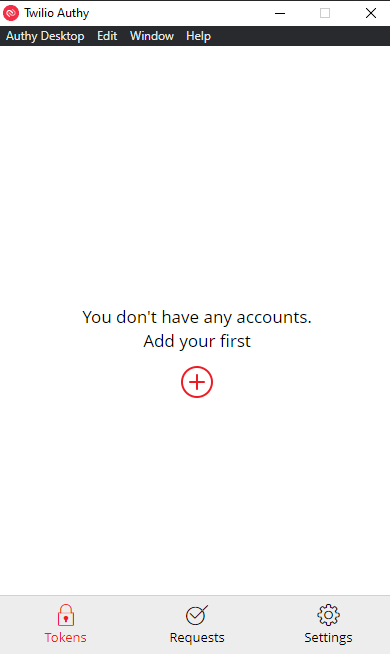
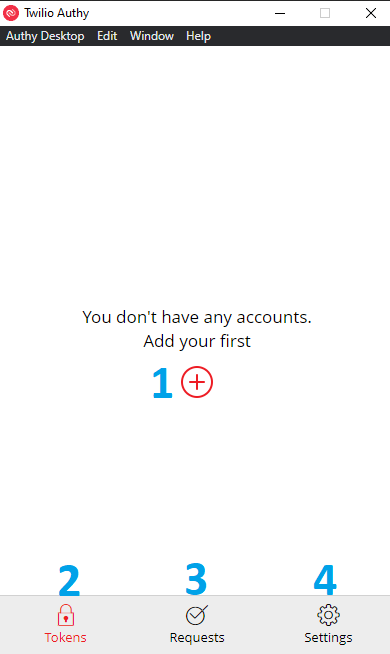
authy continue

diff --git a/authy.html b/authy.html
@@ -107,7 +107,7 @@
                         <li>نقوم بإدخال رقم الهاتف المحمول</li>
                         <li>نضغط <span>"Submit"</span></li>
                      </ul>
-                     <img src="./assets/authyImgs/img1.png" alt="one">
+                     <div class="image"><img src="./assets/authyImgs/img1.png" alt="one"></div>
                   </div>
                </li>
                <li>
@@ -117,7 +117,7 @@
                         <li>نقوم بإدخال الايميل الشخصي</li>
                         <li>نضغط <span>"Submit"</span></li>
                      </ul>
-                     <img src="./assets/authyImgs/img3.png" alt="three">
+                     <div class="image"><img src="./assets/authyImgs/img3.png" alt="three"></div>
                   </div>
                </li>
                <li>
@@ -131,7 +131,7 @@
                         <li>لإرسال الكود عن طريق رسالة SMS على رقم الهاتف المحمول الذب سبق وأدخلناه</li>
                         <li>لتلقي الكود عن طريق مكالمة صوتية عادية على الرقم الذي سبق وأدخلناه</li>
                      </ul>
-                     <img src="./assets/authyImgs/img4.png" alt="four">
+                     <div class="image"><img src="./assets/authyImgs/img4.png" alt="four"></div>
                   </div>
                </li>
                <li>
@@ -142,16 +142,64 @@
                         <li>في حال أردنا تغيير الطريقة التي نتلقى بها كود التأكيد، نضغط على هذا الخيار فيقوم بإعادتنا
                            إلى الخطوة السابقة</li>
                      </ul>
-                     <img src="./assets/authyImgs/img5.png" alt="five">
+                     <div class="image"><img src="./assets/authyImgs/img5.png" alt="five"></div>
                   </div>
                </li>
-               <li> نضغط على الخيار Typical <br>
-                  <img src='./assets/eraserImgs/img3.jpg' alt="three" />
+               <li>
+                  تظهر الصفحة التالية بعد تأكيد الحساب، وهي الواجهة الرئيسية للتطبيق
+                  <div class="special">
+                     <ul class="child-list">
+                        <li>لإضافة بيانات حساب جديد تريد استخدام التطبيق عليه</li>
+                        <li>"Tokens:" جميع العناصر المحفوظة داخل البرنامج (مثال: حساب الجيميل)</li>
+                        <li>"Requests:" طلبات الدخول من العناصر المحفوظة</li>
+                        <li>"Settings:" إعدادات الحساب</li>
+                     </ul>
+                     <div class="image"><img src="./assets/authyImgs/img6.png" alt="six"></div>
+                  </div>
+               </li>
+               <li> لتعيين كلمة سر للتطبيق، نقوم بالضغط على <span>"Settings"</span> لتظهر النافذة التالية:<br>
+                  <div class="special">
+                     <ul class="shild-list">
+                        <li>"General:" إعدادات الحساب وكلمة المرور، <span>نضغط على General</span></li>
+                        <li>"Accounts:" العناصر التي تم إضافتها للبرنامج</li>
+                        <li>"Devices:" الاجهزة المرتبطة بالبرنامج (حيث يمكن العمل عليه من الهاتف المحمول)</li>
+                     </ul>
+                     <div class="image"><img src="./assets/authyImgs/img7.png" alt="seven"></div>
+                  </div>
                </li>
                <li>
-                  نضغط على خيار "Install"
-                  <br />
-                  <img src='./assets/eraserImgs/img4.jpg' alt="four" />
+                  تظهر النافذة التالية:
+                  <div class="special">
+                     <ul class="child-list">
+                        <li>لتغيير رقم الهاتف المحمول</li>
+                        <li>لتغيير الايميل</li>
+                        <li>الكود الخاص بحسابنا على تطبيق Authy</li>
+                        <li>لتعيين كلمة سر للتطبيق، نضغط على <span>"Enable"</span> تظهر النافذة التالية <br />
+                           نقوم بإنشاء كلمة سر وحفظها، ثم إدخالها في المكان المخصص، ثم نضغط على <span>Enable</span>
+                        </li>
+                     </ul>
+                     <div class="image"><img src="./assets/authyImgs/img8.png" alt="eight"></div>
+                  </div>
+               </li>
+               <li>
+                  تظهر نافذة إنشاء كلمة سر كالتالي:
+                  <div class="special">
+                     <ul class="child-list">
+                        <li>نقوم بإنشاء كلمة سر وحفظها، ثم إدخالها في المكان المخصص، ثم نضغط على <span>Enable</span>
+                        </li>
+                     </ul>
+                     <div class="image"><img src="./assets/authyImgs/pass1.png" alt="pass1"></div>
+                  </div>
+               </li>
+               <li>
+                  نقوك بتأكيد كلمة السر
+                  <div class="special">
+                     <ul class="child-list">
+                        <li>نكتب كلمة السر مرة أخرى في الحقل المخصص للتأكيد ثم نضغط على <span>Confirm</span>
+                        </li>
+                     </ul>
+                     <div class="image"><img src="./assets/authyImgs/pass2.png" alt="pass2"></div>
+                  </div>
                </li>
                <li>
                   عند الإنتهاء، تظهر الرسالة التالية، وتعني بأنه تم تنصيب البرنامج <br />

diff --git a/index.html b/index.html
@@ -53,7 +53,7 @@
       </div>
    </div>
    <!-- StarT Gallery -->
-   <h1 style="text-align: center; color: red; font-weight: 900;">VeraCrypt, Eraser, Bitwarden, Jitsi are Done, Zoom is
+   <h1 style="text-align: center; color: red; font-weight: 900;">VeraCrypt, Eraser, Bitwarden, Jitsi are Done, Authy is
       in
       Process.</h1>
    <div class="applications" id="applications">

diff --git a/main.css b/main.css
@@ -563,7 +563,7 @@ footer .copy-right p {
 }
 
 .authy .special .image img {
-	height: 80%;
+	height: 60%;
 }
 
 @media (max-width: 767px) {
